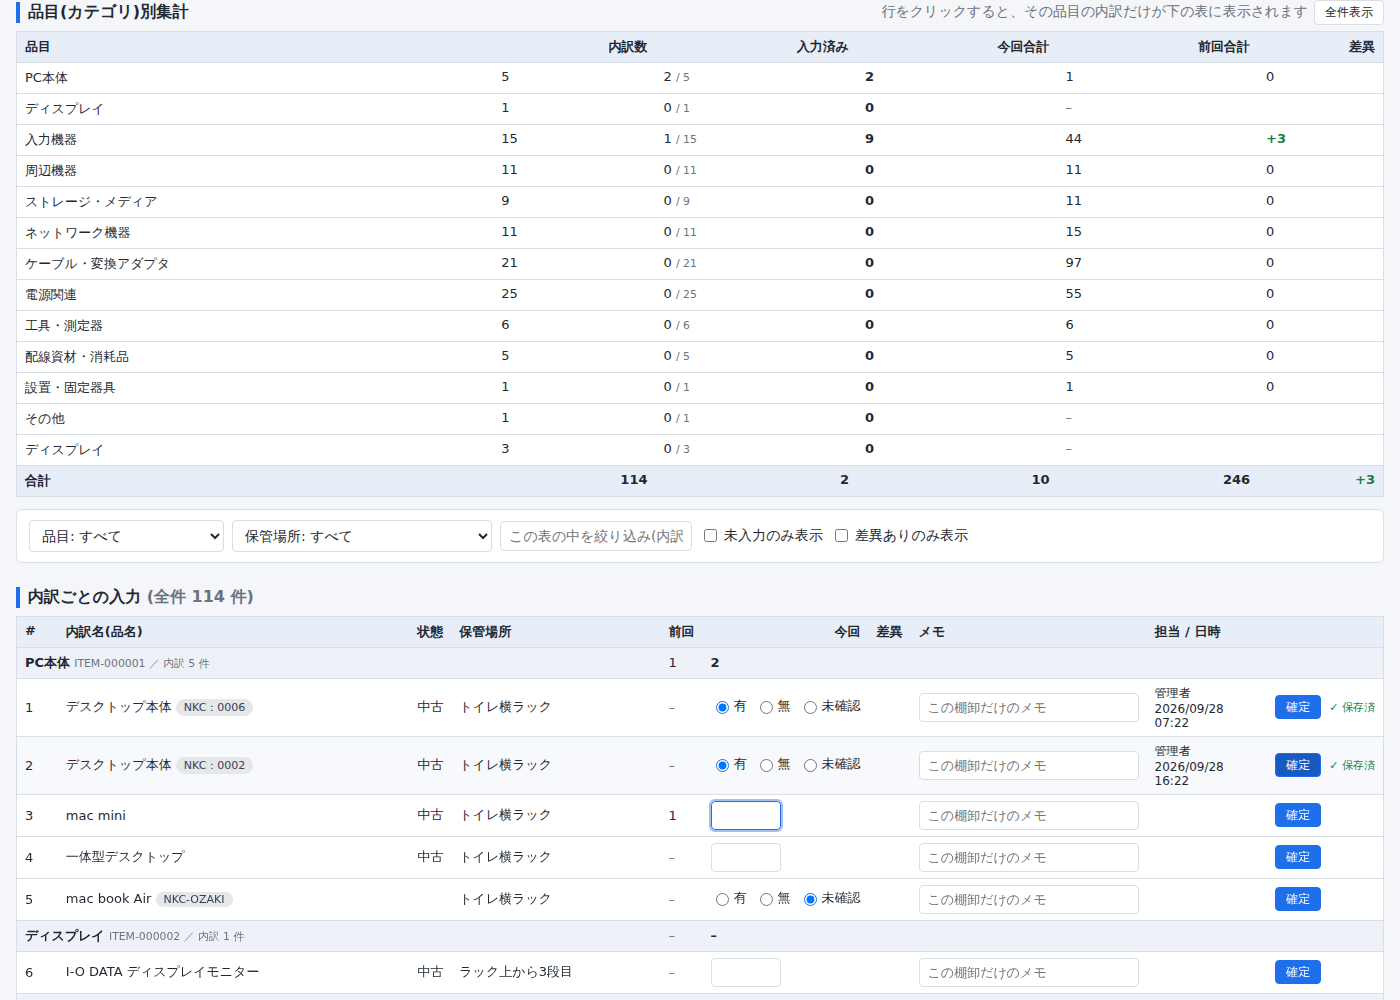
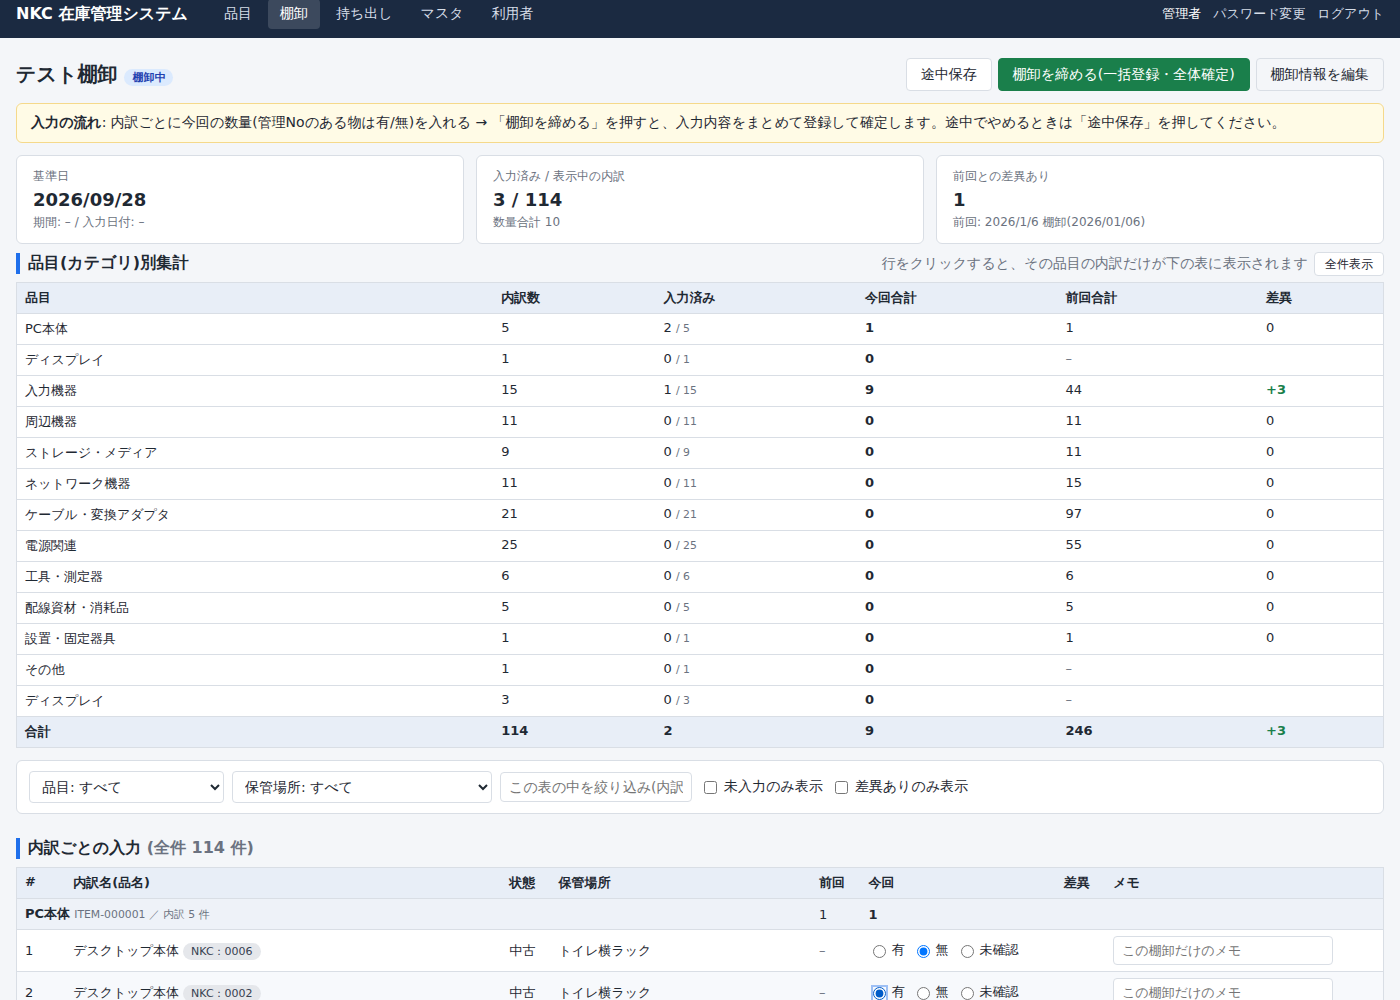
棚卸画面: 行ごとの確定を廃止し「棚卸を締める」で一括登録+確定、途中保存ボタンを上下に配置
- 担当/日時列・確定列・「一覧へ」を削除、項目名と数値を左揃え
- 品目詳細: 「一覧へ」と持ち出し登録カードを削除
- 品目一覧: 絞り込みボタンを色付け
- 版 2026-09-28.9

Claude-Session: https://claude.ai/code/session_01Ri3r8gT3MYmawSEEk5gsQq

diff --git a/webapp/assets/app.js b/webapp/assets/app.js
@@ -47,10 +47,7 @@
     if (d < 0) { cell.classList.add('diff-minus'); }
     if (d !== 0) { row.classList.add('has-diff'); }
   }
-  function markDirty(row) {
-    var st = row.querySelector('.save-state');
-    if (st) { st.textContent = '未保存'; st.classList.remove('saved'); st.classList.add('dirty'); }
-  }
+  function markDirty(row) { /* 行ごとの保存表示は廃止 */ }
   function setEntered(row, on) {
     row.classList.toggle('unentered', !on); row.classList.toggle('entered', on);
   }
@@ -79,24 +76,25 @@
     });
   });
 
-  // 保存済みの数量(集計用)
-  var savedQty = {};
-  rows.forEach(function (row) {
-    var inp = row.querySelector('.qty-input'), strong = row.querySelector('td[data-label="今回"] strong');
-    var v = '';
-    if (inp) { v = inp.value; }
-    else if (row.querySelector('.unit-radios')) { var c = row.querySelector('.unit-radios input:checked'); v = c ? (c.value === 'present' ? '1' : (c.value === 'absent' ? '0' : '')) : ''; }
-    else if (strong) { v = strong.textContent; }
-    else { var b = row.querySelector('.badge-unit-present'); v = b ? '1' : (row.querySelector('.badge-unit-absent') ? '0' : ''); }
-    savedQty[row.getAttribute('data-unit')] = /^\d+$/.test(v) ? parseInt(v, 10) : null;
-  });
+  // 入力中の値で集計(品目合計・カード)を更新
+  function currentQty(row) {
+    var inp = row.querySelector('.qty-input');
+    if (inp) { return /^\d+$/.test(inp.value) ? parseInt(inp.value, 10) : null; }
+    var c = row.querySelector('.unit-radios input:checked');
+    if (c) { return c.value === 'present' ? 1 : (c.value === 'absent' ? 0 : null); }
+    var strong = row.querySelector('td[data-label="今回"] strong');
+    if (strong) { return /^\d+$/.test(strong.textContent) ? parseInt(strong.textContent, 10) : null; }
+    if (row.querySelector('.badge-unit-present')) { return 1; }
+    if (row.querySelector('.badge-unit-absent')) { return 0; }
+    return null;
+  }
   function refreshTotals() {
     var entered = 0, total = 0, byItem = {};
     rows.forEach(function (row) {
       var item = row.getAttribute('data-item');
       byItem[item] = byItem[item] || { entered: 0, total: 0 };
-      var q = savedQty[row.getAttribute('data-unit')];
-      if (q !== null && q !== undefined) { entered++; total += q; byItem[item].entered++; byItem[item].total += q; }
+      var q = currentQty(row);
+      if (q !== null) { entered++; total += q; byItem[item].entered++; byItem[item].total += q; }
     });
     var se = document.getElementById('sum-entered'), st = document.getElementById('sum-total');
     if (se) { se.textContent = entered; }
@@ -110,54 +108,24 @@
     });
   }
 
-  function collectRow(row) {
-    var data = new FormData();
-    data.append('_token', form.querySelector('input[name=_token]').value);
-    data.append('ajax', '1');
-    data.append('save_unit', row.getAttribute('data-unit'));
-    row.querySelectorAll('input, select').forEach(function (el) {
-      if (!el.name) { return; }
-      if (el.type === 'radio' && !el.checked) { return; }
-      data.append(el.name, el.value);
-    });
-    return data;
-  }
+  entryTable.addEventListener('input', refreshTotals);
+  entryTable.addEventListener('change', refreshTotals);
+
+  // Enter キーで次の数量欄へ移動(フォーム送信を防ぐ)
   if (form) {
-    entryTable.querySelectorAll('.row-save').forEach(function (btn) {
-      btn.addEventListener('click', function (e) {
-        if (!window.fetch || !window.FormData) { return; }
-        e.preventDefault();
-        var row = btn.closest('tr');
-        var uid = row.getAttribute('data-unit');
-        var st = row.querySelector('.save-state');
-        btn.disabled = true; st.textContent = '保存中…'; st.classList.remove('saved', 'dirty', 'error');
-        fetch(form.getAttribute('action'), { method: 'POST', body: collectRow(row), credentials: 'same-origin' })
-          .then(function (r) { return r.json(); })
-          .then(function (res) {
-            btn.disabled = false;
-            if (!res.ok) { st.textContent = '✕ ' + res.message; st.classList.add('error'); window.alert(res.message); return; }
-            var info = res.units && res.units[uid];
-            st.textContent = '✓ 保存済'; st.classList.add('saved');
-            if (info) {
-              savedQty[uid] = (info.qty === null || info.qty === undefined) ? null : parseInt(info.qty, 10);
-              var cc = row.querySelector('.counted-cell');
-              cc.innerHTML = '';
-              if (info.by) { cc.appendChild(document.createTextNode(info.by)); }
-              if (info.at) { cc.appendChild(document.createElement('br')); cc.appendChild(document.createTextNode(info.at)); }
-            }
-            refreshTotals();
-            var idx = rows.indexOf(row);
-            for (var j = idx + 1; j < rows.length; j++) {
-              if (rows[j].style.display !== 'none') { var n = rows[j].querySelector('.qty-input'); if (n) { n.focus(); n.select(); } break; }
-            }
-          })
-          .catch(function () { btn.disabled = false; st.textContent = '✕ 通信エラー'; st.classList.add('error'); });
+    var qtyInputs = Array.prototype.slice.call(entryTable.querySelectorAll('.qty-input'));
+    qtyInputs.forEach(function (inp, i) {
+      inp.addEventListener('keydown', function (e) {
+        if (e.key === 'Enter') {
+          e.preventDefault();
+          for (var j = i + 1; j < qtyInputs.length; j++) {
+            if (qtyInputs[j].closest('tr').style.display !== 'none') { qtyInputs[j].focus(); qtyInputs[j].select(); break; }
+          }
+        }
       });
     });
-    entryTable.querySelectorAll('.qty-input, input[name^="unotes"]').forEach(function (inp) {
-      inp.addEventListener('keydown', function (e) {
-        if (e.key === 'Enter') { e.preventDefault(); inp.closest('tr').querySelector('.row-save').click(); }
-      });
+    entryTable.querySelectorAll('input[name^="unotes"]').forEach(function (inp) {
+      inp.addEventListener('keydown', function (e) { if (e.key === 'Enter') { e.preventDefault(); } });
     });
   }
 

diff --git a/webapp/assets/style.css b/webapp/assets/style.css
@@ -16,7 +16,7 @@ section { margin-top: 8px; }
 .small { font-size: 12px; }
 .pre { white-space: pre-wrap; }
 .nowrap { white-space: nowrap; }
-.num { text-align: right; }
+.num { text-align: left; }
 .req { color: var(--danger); font-size: 11px; margin-left: 4px; }
 .hint { display: block; color: var(--muted); font-size: 11px; margin-top: 2px; }
 
@@ -85,12 +85,13 @@ textarea { width: 100%; resize: vertical; }
 .table { width: 100%; border-collapse: collapse; background: var(--panel); border: 1px solid var(--line); font-size: 13px; }
 .table th, .table td { border-bottom: 1px solid var(--line); padding: 6px 8px; vertical-align: top; text-align: left; }
 .table th { background: var(--head); font-weight: 600; white-space: nowrap; position: sticky; top: 0; z-index: 1; }
-.table th.num { text-align: right; }
+.table th.num { text-align: left; }
+.bottom-actions { margin-top: 16px; padding-top: 12px; border-top: 1px solid var(--line); display: flex; gap: 8px; flex-wrap: wrap; }
 .table tbody tr:hover { background: #f7f9fc; }
 .table .notes-cell { max-width: 320px; white-space: pre-wrap; word-break: break-all; font-size: 12px; }
 .row-inactive { color: var(--muted); background: #fafafa; }
 .table-entry td { vertical-align: middle; }
-.qty-input { width: 70px; text-align: right; }
+.qty-input { width: 70px; text-align: left; }
 .unit-list { margin-top: 4px; display: flex; flex-direction: column; gap: 2px; }
 .unit-row { display: flex; gap: 10px; align-items: center; font-size: 12px; background: #f3f6fb; padding: 3px 6px; border-radius: 3px; }
 .unit-row label { display: inline-flex; align-items: center; gap: 2px; }

diff --git a/webapp/app/views/counts/entry.php b/webapp/app/views/counts/entry.php
@@ -1,23 +1,31 @@
+<?php
+// 締め/途中保存ボタン(上下に同じものを出す)。entry-form の外に置くため form 属性で紐付ける
+$actionButtons = function () use ($count, $editable) {
+    if ($count['status'] === 'preparing') {
+        echo '<form method="post" action="' . h(url('count', ['action' => 'status'])) . '" class="inline">' . csrf_field() . '<input type="hidden" name="id" value="' . h($count['id']) . '"><input type="hidden" name="to" value="in_progress"><button class="btn btn-primary" type="submit">棚卸を開始</button></form>';
+    } elseif ($editable) {
+        echo '<button type="submit" form="entry-form" class="btn" name="close" value="0">途中保存</button> ';
+        if (can('count.confirm')) {
+            echo '<button type="submit" form="entry-form" class="btn btn-success" name="close" value="1" data-confirm="入力内容を保存して、この棚卸を締めます(全体確定)。締めた後は入力できなくなります(権限があれば解除できます)。よろしいですか?">棚卸を締める(一括登録・全体確定)</button>';
+        } else {
+            echo '<span class="muted">棚卸を締めるのは権限のある利用者が行います</span>';
+        }
+    } elseif ($count['status'] === 'confirmed' && can('count.confirm')) {
+        echo '<form method="post" action="' . h(url('count', ['action' => 'status'])) . '" class="inline" data-confirm="締めを解除して再入力できるようにします。よろしいですか?">' . csrf_field() . '<input type="hidden" name="id" value="' . h($count['id']) . '"><input type="hidden" name="to" value="in_progress"><button class="btn" type="submit">締めを解除</button></form>';
+    }
+};
+?>
 <div class="page-head">
   <h1><?= h($count['count_name']) ?> <span class="badge badge-<?= h($count['status']) ?>"><?= h(count_status_label($count['status'])) ?></span></h1>
   <div>
-    <?php if ($count['status'] === 'preparing'): ?>
-      <form method="post" action="<?= h(url('count', ['action' => 'status'])) ?>" class="inline"><?= csrf_field() ?><input type="hidden" name="id" value="<?= h($count['id']) ?>"><input type="hidden" name="to" value="in_progress"><button class="btn btn-primary" type="submit">棚卸を開始</button></form>
-    <?php elseif ($count['status'] === 'in_progress'): ?>
-      <?php if (can('count.confirm')): ?>
-      <form method="post" action="<?= h(url('count', ['action' => 'status'])) ?>" class="inline" data-confirm="この棚卸を締めます(全体確定)。締めた後は各行の入力ができなくなります(権限があれば解除できます)。よろしいですか?"><?= csrf_field() ?><input type="hidden" name="id" value="<?= h($count['id']) ?>"><input type="hidden" name="to" value="confirmed"><button class="btn btn-success" type="submit">棚卸を締める(全体確定)</button></form>
-      <?php else: ?><span class="muted">棚卸を締めるのは権限のある利用者が行います</span><?php endif; ?>
-    <?php elseif ($count['status'] === 'confirmed' && can('count.confirm')): ?>
-      <form method="post" action="<?= h(url('count', ['action' => 'status'])) ?>" class="inline" data-confirm="締めを解除して再入力できるようにします。よろしいですか?"><?= csrf_field() ?><input type="hidden" name="id" value="<?= h($count['id']) ?>"><input type="hidden" name="to" value="in_progress"><button class="btn" type="submit">締めを解除</button></form>
-    <?php endif; ?>
+    <?php $actionButtons(); ?>
     <a class="btn btn-ghost" href="<?= h(url('count', ['action' => 'edit', 'id' => $count['id']])) ?>">棚卸情報を編集</a>
-    <a class="btn btn-ghost" href="<?= h(url('counts')) ?>">一覧へ</a>
   </div>
 </div>
 
 <?php if ($editable): ?>
 <div class="flow-hint">
-  <strong>入力の流れ</strong>: ① 内訳ごとに今回の数量(管理Noのある物は有/無)を入れて右端の<span class="btn btn-sm btn-primary btn-fake">確定</span>を押す(その行だけ保存されます) → ② 全部終わったら右上の「棚卸を締める(全体確定)」を押す
+  <strong>入力の流れ</strong>: 内訳ごとに今回の数量(管理Noのある物は有/無)を入れる → 「棚卸を締める」を押すと、入力内容をまとめて登録して確定します。途中でやめるときは「途中保存」を押してください。
 </div>
 <?php endif; ?>
 
@@ -66,18 +74,18 @@
 
 <h2 id="entry-title">内訳ごとの入力 <span class="muted" id="entry-scope"><?= $itemFilter !== null ? '(品目で絞り込み中)' : '(全件)' ?></span></h2>
 <?php if ($editable): ?>
-<form method="post" action="<?= h(url('count_entry', ['action' => 'save', 'id' => $count['id']] + ($locFilter !== null ? ['location' => $locFilter] : []) + ($itemFilter !== null ? ['item' => $itemFilter] : []))) ?>" id="entry-form">
+<form method="post" action="<?= h(url('count_entry', ['action' => 'save', 'id' => $count['id']] + ($locFilter !== null ? ['location' => $locFilter] : []) + ($itemFilter !== null ? ['item' => $itemFilter] : []))) ?>" id="entry-form" data-dirty-check>
   <?= csrf_field() ?>
 <?php endif; ?>
 <div class="table-wrap"><table class="table table-entry table-cards" id="entry-table">
-  <thead><tr><th>#</th><th>内訳名(品名)</th><th>状態</th><th>保管場所</th><th class="num">前回</th><th class="num">今回</th><th class="num">差異</th><th>メモ</th><th>担当 / 日時</th><th></th></tr></thead>
+  <thead><tr><th>#</th><th>内訳名(品名)</th><th>状態</th><th>保管場所</th><th class="num">前回</th><th class="num">今回</th><th class="num">差異</th><th>メモ</th></tr></thead>
   <tbody>
   <?php $n = 0; foreach ($rows as $grp): $it = $grp['item']; $iid = (int)$it['id']; ?>
     <tr class="item-head" data-item="<?= $iid ?>">
       <td colspan="4" data-label="品目"><strong><?= h($it['item_name']) ?></strong> <small class="muted"><?= h($it['item_code']) ?> ／ 内訳 <?= count($grp['units']) ?> 件</small></td>
       <td class="num" data-label="前回合計"><?= $grp['prev_total'] === null ? '<span class="muted">–</span>' : h($grp['prev_total']) ?></td>
       <td class="num" data-label="今回合計"><strong class="item-total" data-item="<?= $iid ?>"><?= $it['count_quantity'] === null ? '–' : h($it['count_quantity']) ?></strong></td>
-      <td colspan="4" data-label=""></td>
+      <td colspan="2" data-label=""></td>
     </tr>
     <?php foreach ($grp['units'] as $u): $uid = (int)$u['id']; $isUnit = $u['management_no'] !== null && $u['management_no'] !== ''; $n++; ?>
     <tr class="entry-row <?= $u['counted_quantity'] === null ? 'unentered' : 'entered' ?> <?= $u['diff'] ? 'has-diff' : '' ?> <?= (int)$u['is_active'] ? '' : 'row-inactive' ?>" data-unit="<?= $uid ?>" data-item="<?= $iid ?>" data-cat="<?= $iid ?>" data-prev="<?= h($u['prev_quantity']) ?>" data-text="<?= h(mb_strtolower(($u['name'] ?? '') . ' ' . ($u['management_no'] ?? '') . ' ' . $it['item_name'])) ?>">
@@ -104,21 +112,12 @@
       </td>
       <td class="num diff-cell <?= $u['diff'] === null ? '' : ($u['diff'] > 0 ? 'diff-plus' : ($u['diff'] < 0 ? 'diff-minus' : '')) ?>" data-label="差異"><?= $u['diff'] === null ? '' : h(($u['diff'] > 0 ? '+' : '') . $u['diff']) ?></td>
       <td data-label="メモ"><?php if ($editable): ?><input type="text" name="unotes[<?= $uid ?>]" value="<?= h($u['result_notes']) ?>" class="w-notes" placeholder="この棚卸だけのメモ"><?php else: ?><?= nl2br(h($u['result_notes'])) ?><?php endif; ?></td>
-      <td class="small counted-cell" data-label="担当 / 日時"><?= $u['result_id'] ? h($u['result_by']) . '<br>' . h(fmt_datetime($u['result_at'])) : '' ?></td>
-      <td class="nowrap row-action" data-label="">
-        <?php if ($editable): ?>
-          <button type="submit" name="save_unit" value="<?= $uid ?>" class="btn btn-sm btn-primary row-save" data-unit="<?= $uid ?>">確定</button>
-          <span class="save-state <?= $u['counted_quantity'] === null ? '' : 'saved' ?>" data-unit="<?= $uid ?>"><?= $u['counted_quantity'] === null ? '' : '✓ 保存済' ?></span>
-        <?php else: ?>
-          <?= $u['counted_quantity'] === null ? '<span class="muted">未入力</span>' : '<span class="badge badge-on">済</span>' ?>
-        <?php endif; ?>
-      </td>
     </tr>
     <?php endforeach; ?>
   <?php endforeach; ?>
   </tbody>
 </table></div>
 <?php if ($editable): ?>
-  <div class="form-actions"><button type="submit" class="btn" id="save-all">表示中の行をまとめて保存</button> <span class="muted">通常は各行の「確定」で保存してください</span></div>
 </form>
 <?php endif; ?>
+<div class="form-actions bottom-actions"><?php $actionButtons(); ?></div>

diff --git a/webapp/app/controllers/count_entry.php b/webapp/app/controllers/count_entry.php
@@ -152,7 +152,18 @@ if ($_SERVER['REQUEST_METHOD'] === 'POST' && $action === 'save') {
     if ($saveUnit !== null && !isset($savedUnits[$saveUnit])) {
         $respond(false, '対象の内訳が見つかりません。');
     }
-    $respond(true, $saveUnit !== null ? '保存しました。' : '保存しました(変更 ' . $saved . ' 件)。', ['units' => $savedUnits, 'items' => $itemsOut]);
+    // 「棚卸を締める」: 保存に続けて全体確定
+    if (($_POST['close'] ?? '') === '1') {
+        if (!can('count.confirm')) {
+            $respond(false, '保存しました(変更 ' . $saved . ' 件)。棚卸を締める権限がないため、締めは行っていません。');
+        }
+        $unentered = (int)db_val("SELECT COUNT(*) FROM inventory_units u JOIN inventory_items i ON i.id = u.item_id
+                                   WHERE u.is_active = 1 AND u.status <> 'disposed' AND i.is_active = 1
+                                     AND NOT EXISTS (SELECT 1 FROM inventory_count_unit_results r WHERE r.count_id = ? AND r.unit_id = u.id AND r.counted_quantity IS NOT NULL)", [$count['id']]);
+        db_exec("UPDATE inventory_counts SET status = 'confirmed', end_date = COALESCE(end_date, CURDATE()), confirmed_by = ?, confirmed_at = NOW() WHERE id = ?", [actor_name(), $count['id']]);
+        $respond(true, '入力内容を登録し、棚卸を締めました(変更 ' . $saved . ' 件)。' . ($unentered > 0 ? "数量未入力の内訳が {$unentered} 件あります。未入力の内訳は履歴に含まれません。" : ''));
+    }
+    $respond(true, $saveUnit !== null ? '保存しました。' : '途中保存しました(変更 ' . $saved . ' 件)。', ['units' => $savedUnits, 'items' => $itemsOut]);
 }
 
 // ---------------------------------------------------------------- 表示

diff --git a/webapp/app/views/items/detail.php b/webapp/app/views/items/detail.php
@@ -8,15 +8,13 @@
       <button type="submit" class="btn <?= (int)$item['is_active'] ? 'btn-danger' : '' ?>"><?= (int)$item['is_active'] ? '無効にする' : '再有効化' ?></button>
     </form>
     <?php endif; ?>
-    <a class="btn btn-ghost" href="<?= h(url('items')) ?>">一覧へ</a>
   </div>
 </div>
 
-<div class="cards cards-4 stock-cards">
+<div class="cards cards-3 stock-cards">
   <div class="card"><div class="card-label">現在庫(計算・合計)</div><div class="card-value"><?= $stock['current'] === null ? '<span class="muted">–</span>' : h($stock['current']) ?></div><div class="card-sub">棚卸数 − 持ち出し + 戻し</div></div>
   <div class="card"><div class="card-label">最新棚卸数(合計)</div><div class="card-value"><?= $stock['latest_qty'] === null ? '<span class="muted">–</span>' : h($stock['latest_qty']) ?></div><div class="card-sub"><?= $latestCount ? h($latestCount['count_name']) : '確定済み棚卸なし' ?></div></div>
   <div class="card"><div class="card-label">持ち出し中</div><div class="card-value"><?= h($stock['open_qty']) ?></div><div class="card-sub"><?= $stock['open'] ? h(implode(' / ', array_map('checkout_label', $stock['open']))) : 'なし' ?></div></div>
-  <div class="card"><div class="card-label">持ち出し登録</div><div class="card-sub"><a class="btn btn-sm btn-primary" href="<?= h(url('checkout', ['mode' => 'out', 'item_id' => $item['id']])) ?>">この品目を持ち出す</a> <a class="btn btn-sm" href="<?= h(url('checkout', ['mode' => 'in'])) ?>">戻す</a></div></div>
 </div>
 
 <div class="detail-grid">

diff --git a/webapp/app/views/items/list.php b/webapp/app/views/items/list.php
@@ -9,7 +9,7 @@
   <select name="location"><option value="">保管場所: すべて</option><?php foreach ($locations as $l): ?><option value="<?= h($l['id']) ?>" <?= $f['location'] == $l['id'] ? 'selected' : '' ?>><?= h($l['name']) ?></option><?php endforeach; ?></select>
   <select name="condition"><option value="">状態: すべて</option><?php foreach ($conditions as $c): ?><option value="<?= h($c['code']) ?>" <?= $f['condition'] === $c['code'] ? 'selected' : '' ?>><?= h($c['name']) ?></option><?php endforeach; ?><option value="_none" <?= $f['condition'] === '_none' ? 'selected' : '' ?>>(未設定)</option></select>
   <select name="active"><option value="1" <?= $f['active'] === '1' ? 'selected' : '' ?>>有効のみ</option><option value="0" <?= $f['active'] === '0' ? 'selected' : '' ?>>無効のみ</option><option value="all" <?= $f['active'] === 'all' ? 'selected' : '' ?>>すべて</option></select>
-  <button type="submit" class="btn">絞り込み</button>
+  <button type="submit" class="btn btn-primary">絞り込み</button>
   <a href="<?= h(url('items')) ?>" class="btn btn-ghost">クリア</a>
 </form>
 

diff --git a/webapp/app/bootstrap.php b/webapp/app/bootstrap.php
@@ -15,7 +15,7 @@ if (is_file(APP_DIR . '/config.local.php')) {
     }
 }
 define('APP_NAME', $config['app']['name']);
-define('APP_VERSION', '2026-09-28.8');   // 画面下部に表示。アップロード漏れの確認用(更新のたびに上げる)
+define('APP_VERSION', '2026-09-28.9');   // 画面下部に表示。アップロード漏れの確認用(更新のたびに上げる)
 date_default_timezone_set($config['app']['timezone']);
 
 require APP_DIR . '/lib/db.php';

diff --git a/docs/07_XServer導入手順.md b/docs/07_XServer導入手順.md
@@ -91,6 +91,7 @@ return [
 | 更新日 | 内容 | 実行するSQL(すでに 001 を実行済みの環境) |
 |---|---|---|
 | 2026-09-18 | 持ち出し・戻し機能、現在庫表示、スマホ対応 | `sql/004_add_checkouts.sql` |
+| 2026-09-28 (版 .9) | 棚卸: 行ごとの確定を廃止し「棚卸を締める」で一括登録+確定、途中保存ボタン(上下)、担当/日時列削除、項目名を左揃え。品目詳細の「一覧へ」と持ち出し登録カードを削除、絞り込みボタンを色付け | なし |
 | 2026-09-28 (版 .8) | 品目一覧で内訳(品名)を常に表示、開閉ボタン廃止 | なし |
 | 2026-09-28 (版 .7) | **構造変更**: 品目=カテゴリ、内訳=実物の種類・個体。棚卸は内訳ごとに入力、持ち出しは内訳単位 | **`sql/006_restructure_items_by_category.sql`**(必須。実行前に phpMyAdmin でエクスポートしてバックアップ。004 未実行なら先に 004、カテゴリ未設定の内訳を「その他」以外にしたければ 005 を先に) |
 | 2026-09-28 (版 .6) | 品目登録・編集画面で個体(管理No等)をその場で複数行入力 | なし |
